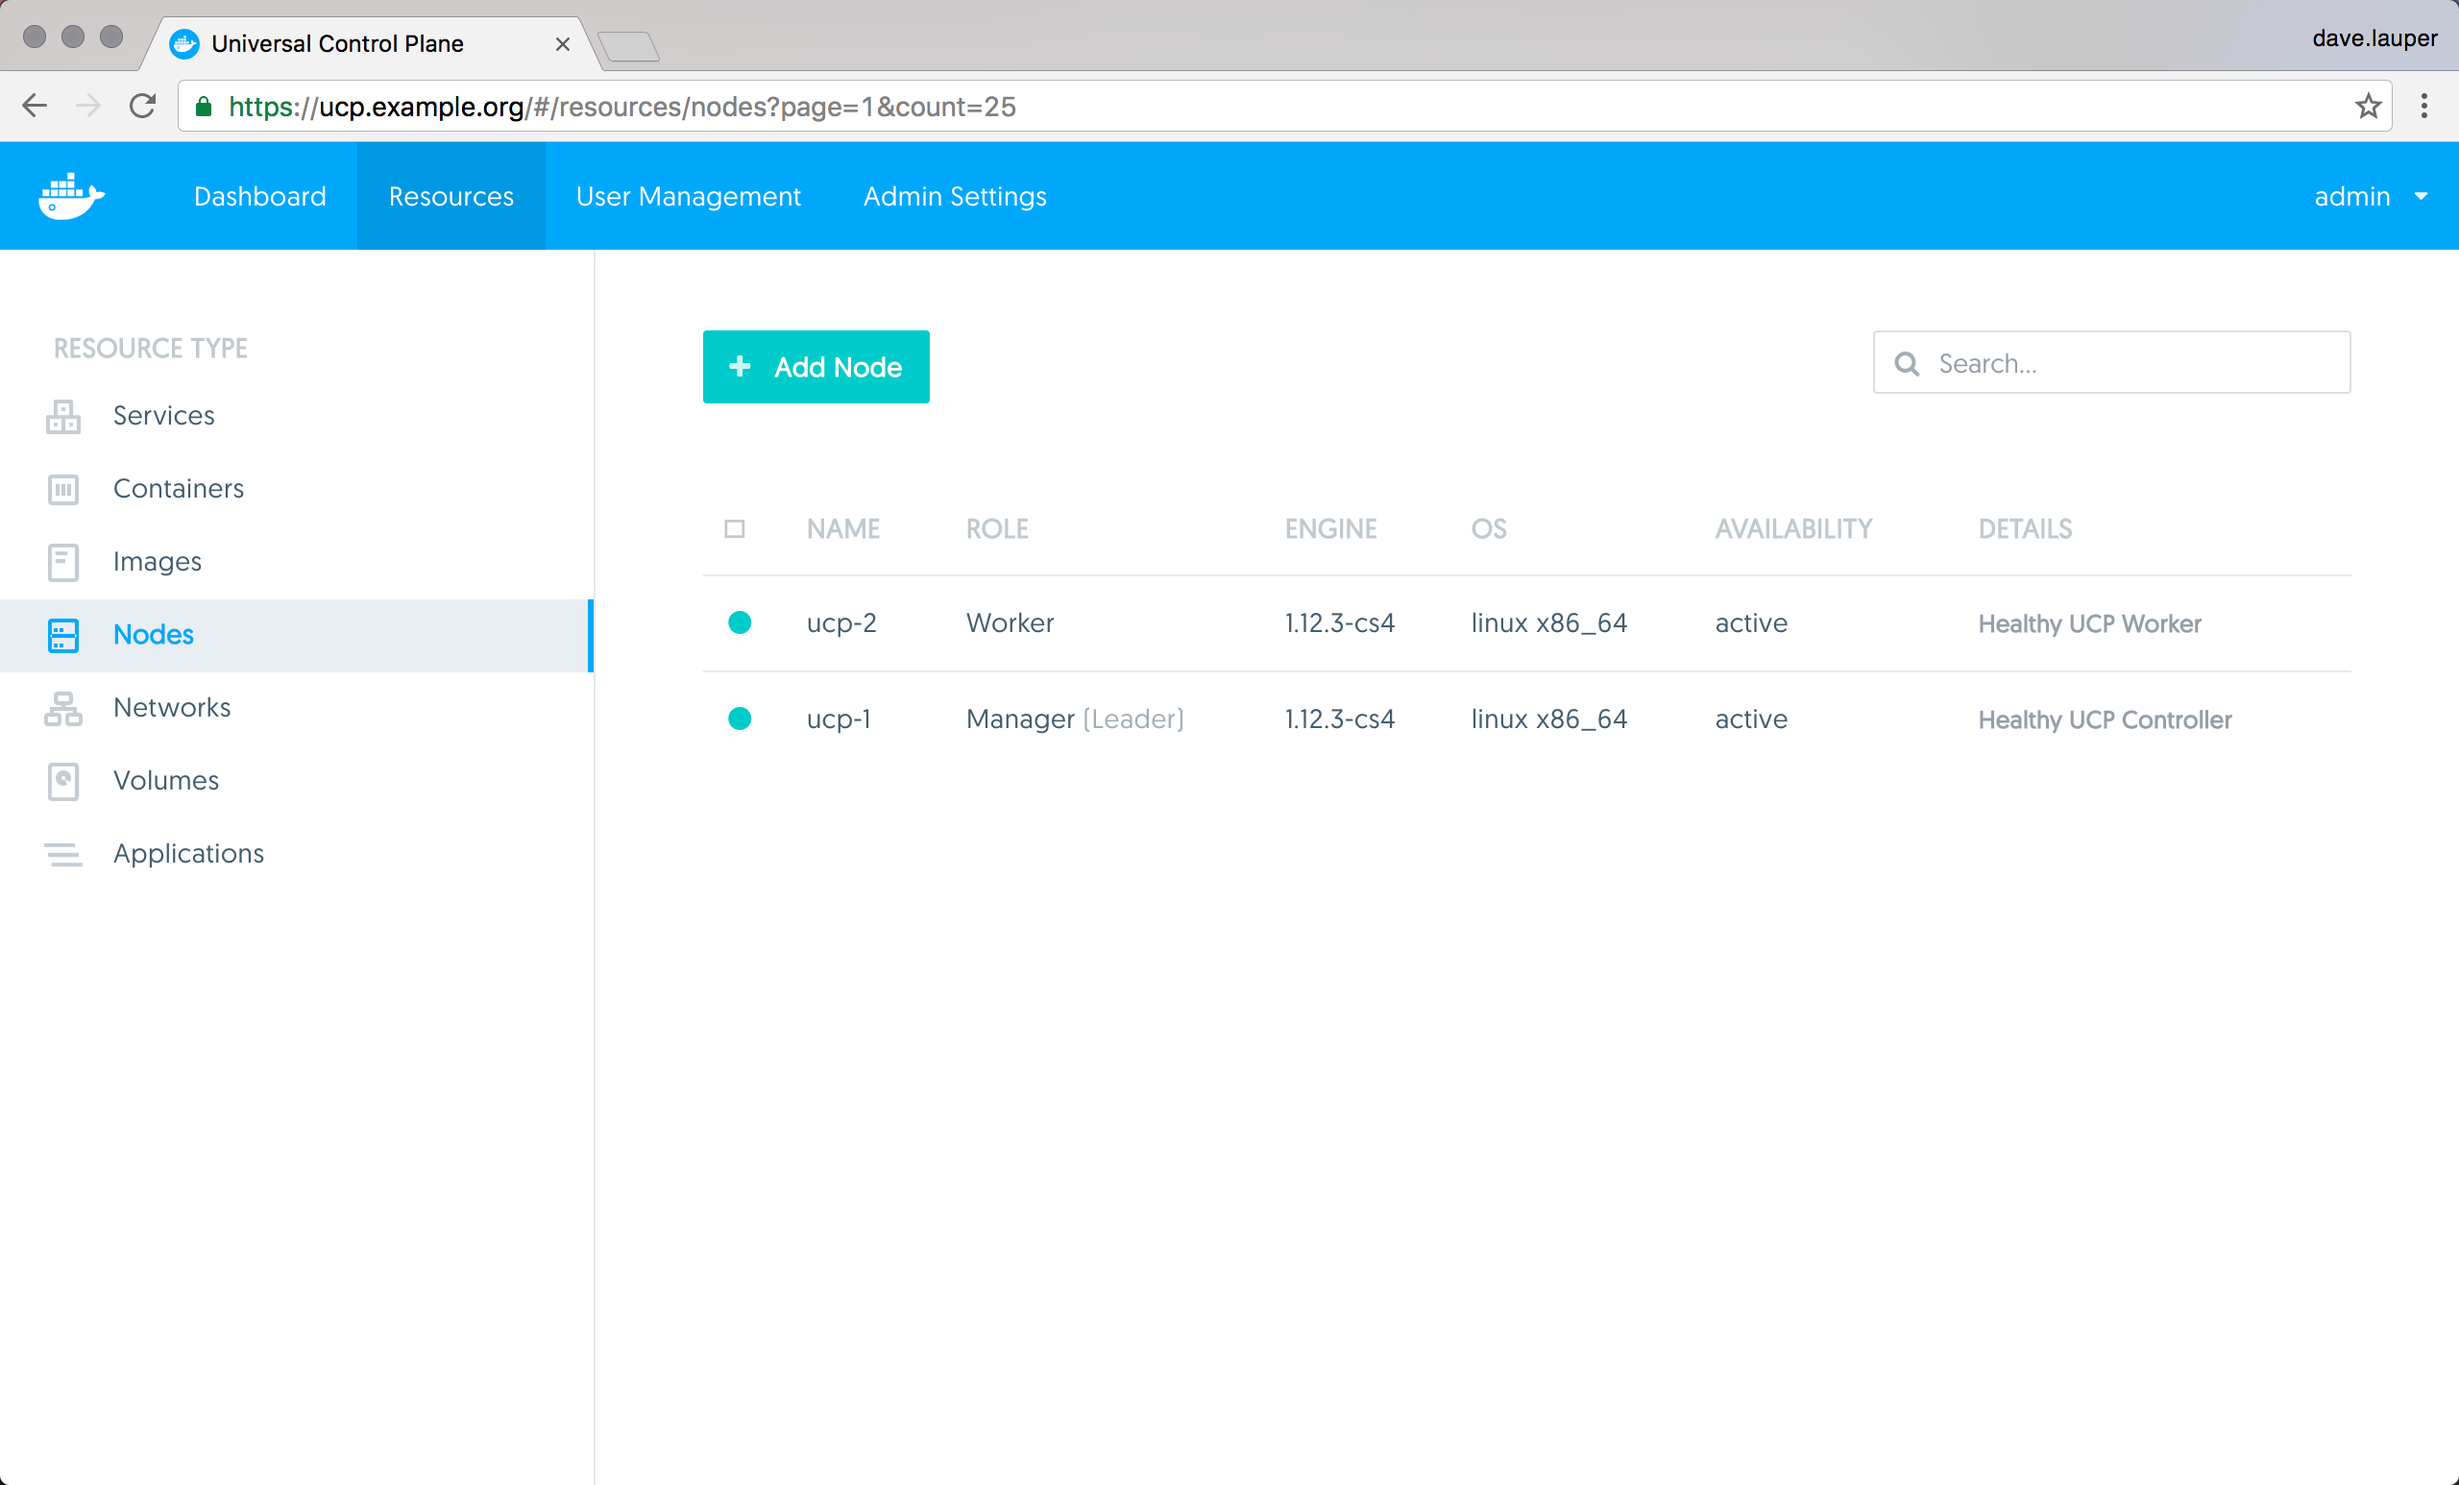
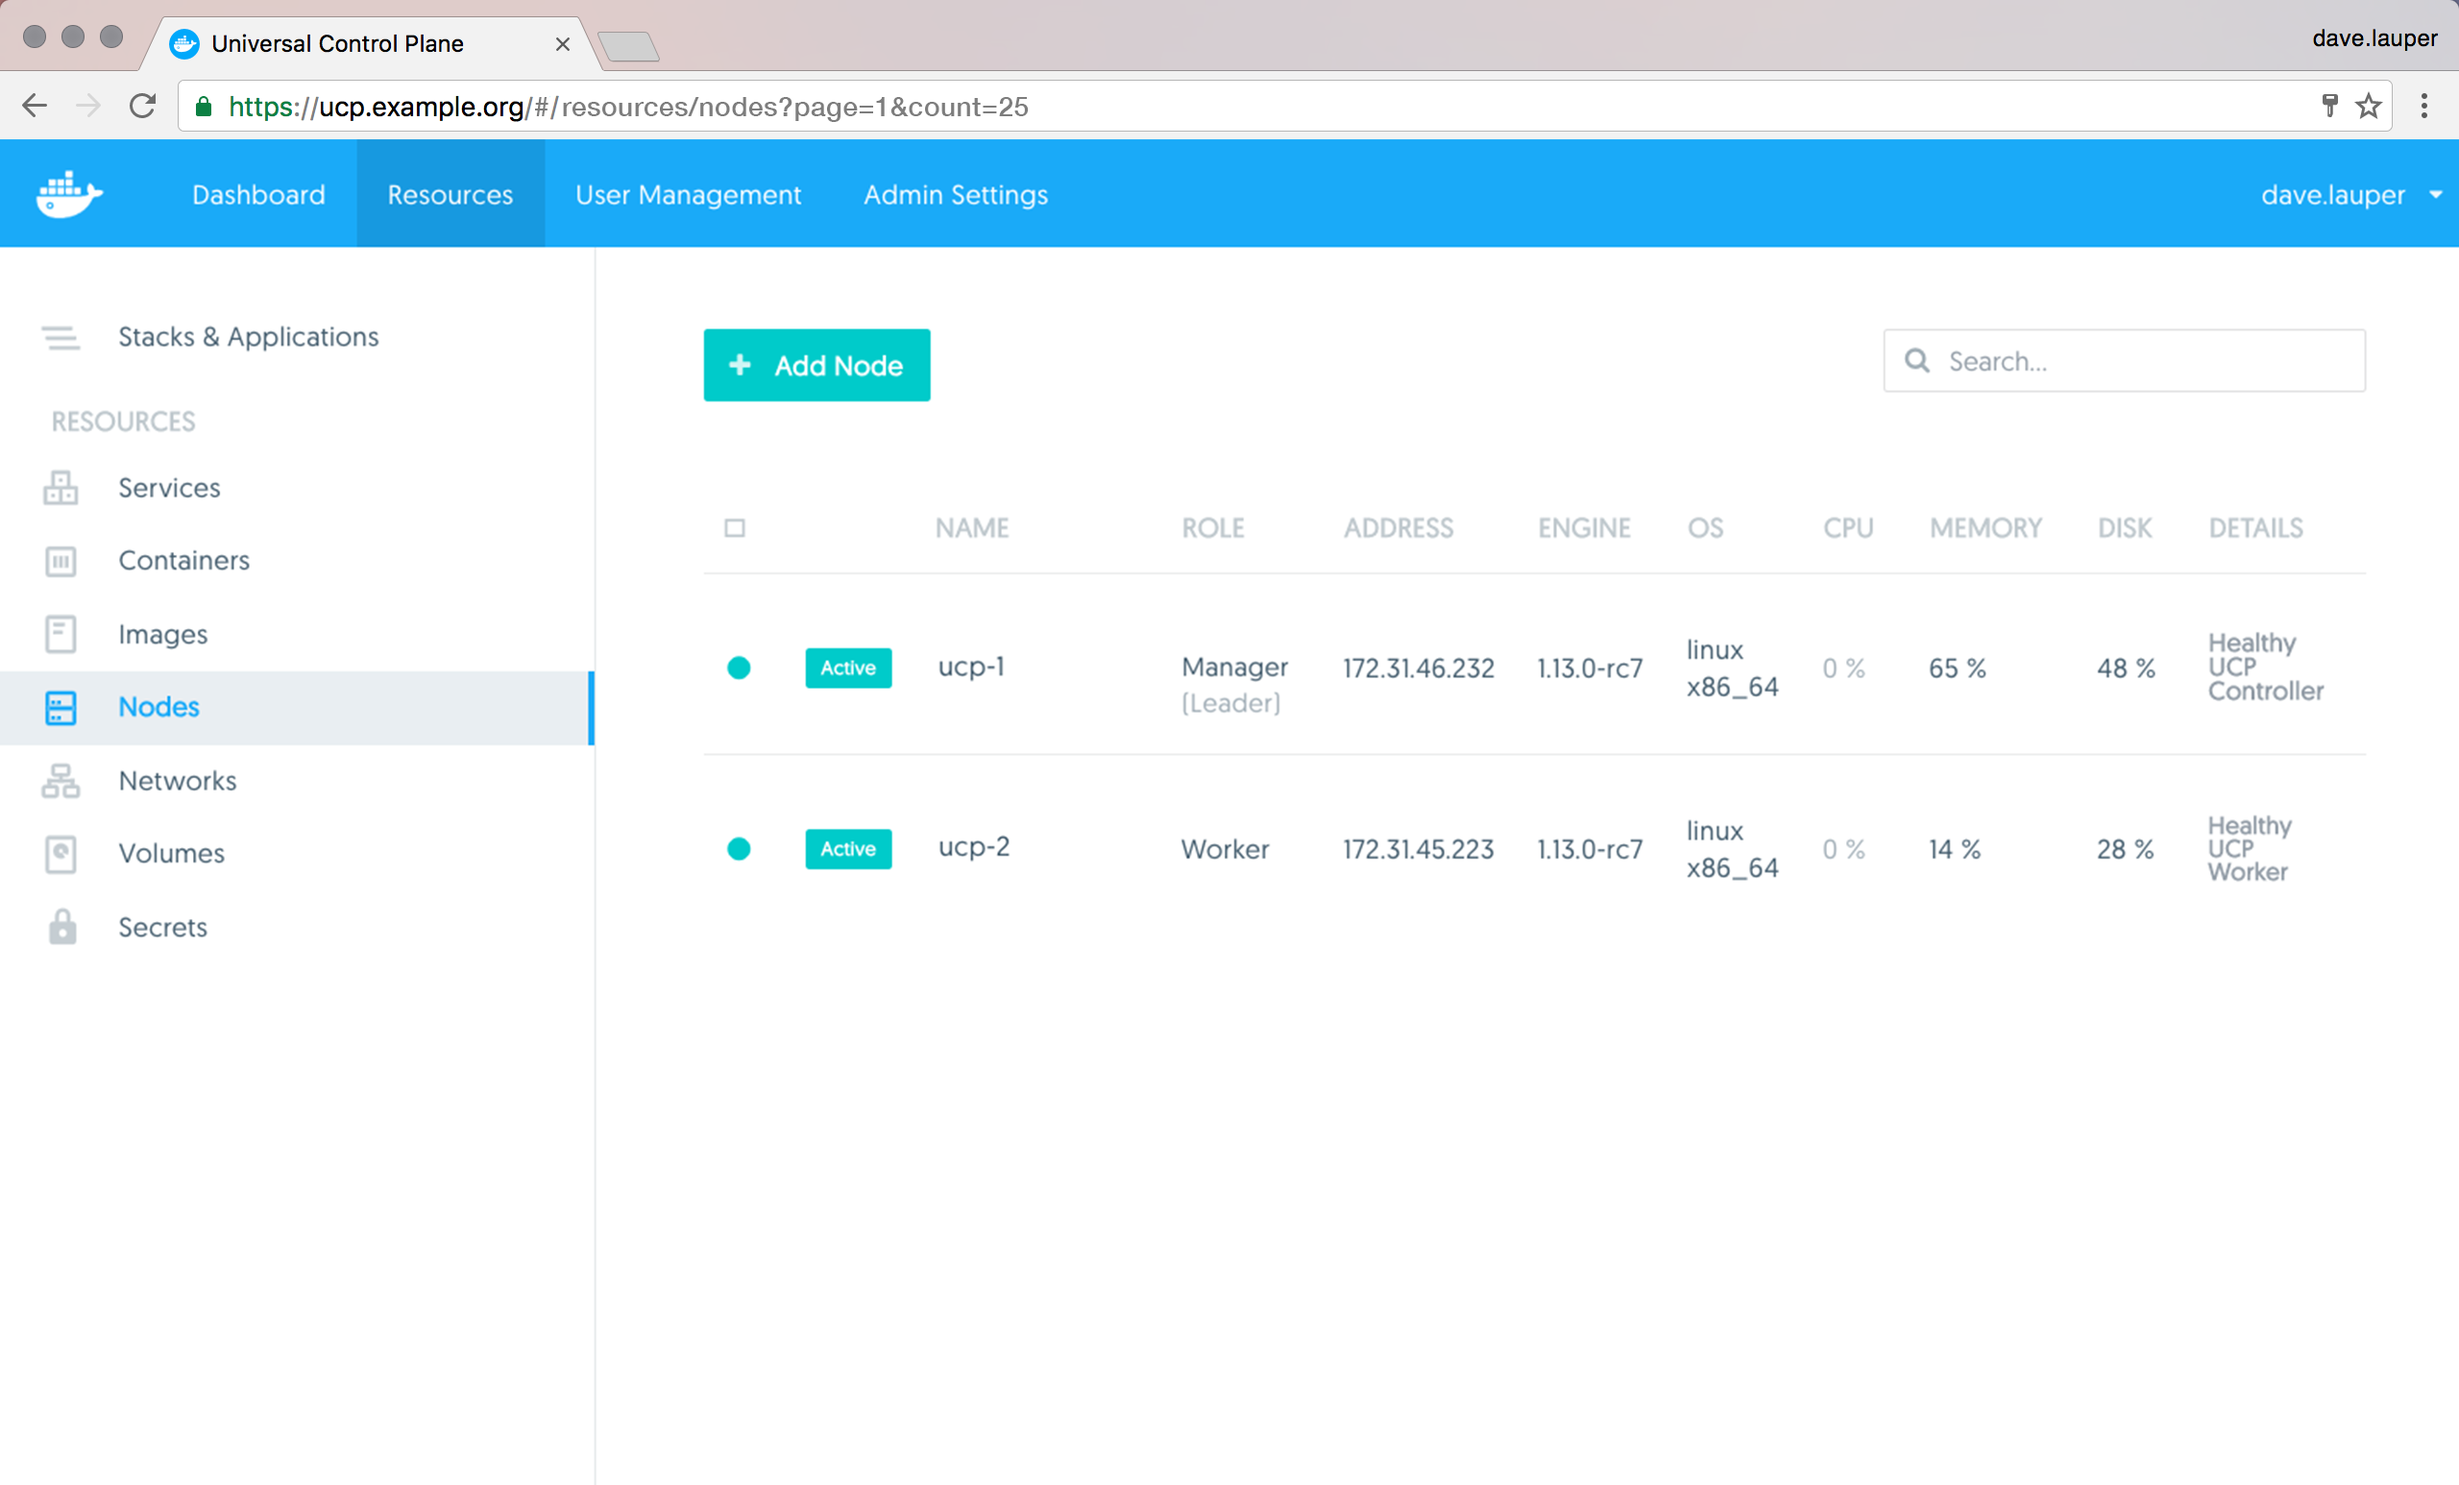
Update screenshots for datacenter/ucp/2.1/guides/admin/configure/scale-your-cluster/

diff --git a/datacenter/ucp/2.1/guides/admin/configure/scale-your-cluster.md b/datacenter/ucp/2.1/guides/admin/configure/scale-your-cluster.md
@@ -9,7 +9,7 @@ Docker UCP is designed for scaling horizontally as your applications grow in
 size and usage. You can add or remove nodes from the UCP cluster to make it
 scale to your needs.
 
-![](../../images/scale-your-cluster-1.svg)
+![](../../images/scale-your-cluster-0.svg)
 
 Since UCP leverages the clustering functionality provided by Docker Engine,
 you use the [docker swarm join](/engine/swarm/swarm-tutorial/add-nodes.md)
@@ -47,7 +47,7 @@ the **Resources** page, and go to the **Nodes** section.
 
 Click the **Add Node button** to add a new node.
 
-![](../../images/scale-your-cluster-2.png){: .with-border}
+![](../../../../../images/try-ddc-3.png){: .with-border}
 
 Check the 'Add node as a manager' option if you want to add the node as manager.
 Also, set the 'Use a custom listen address' option to specify the IP of the
